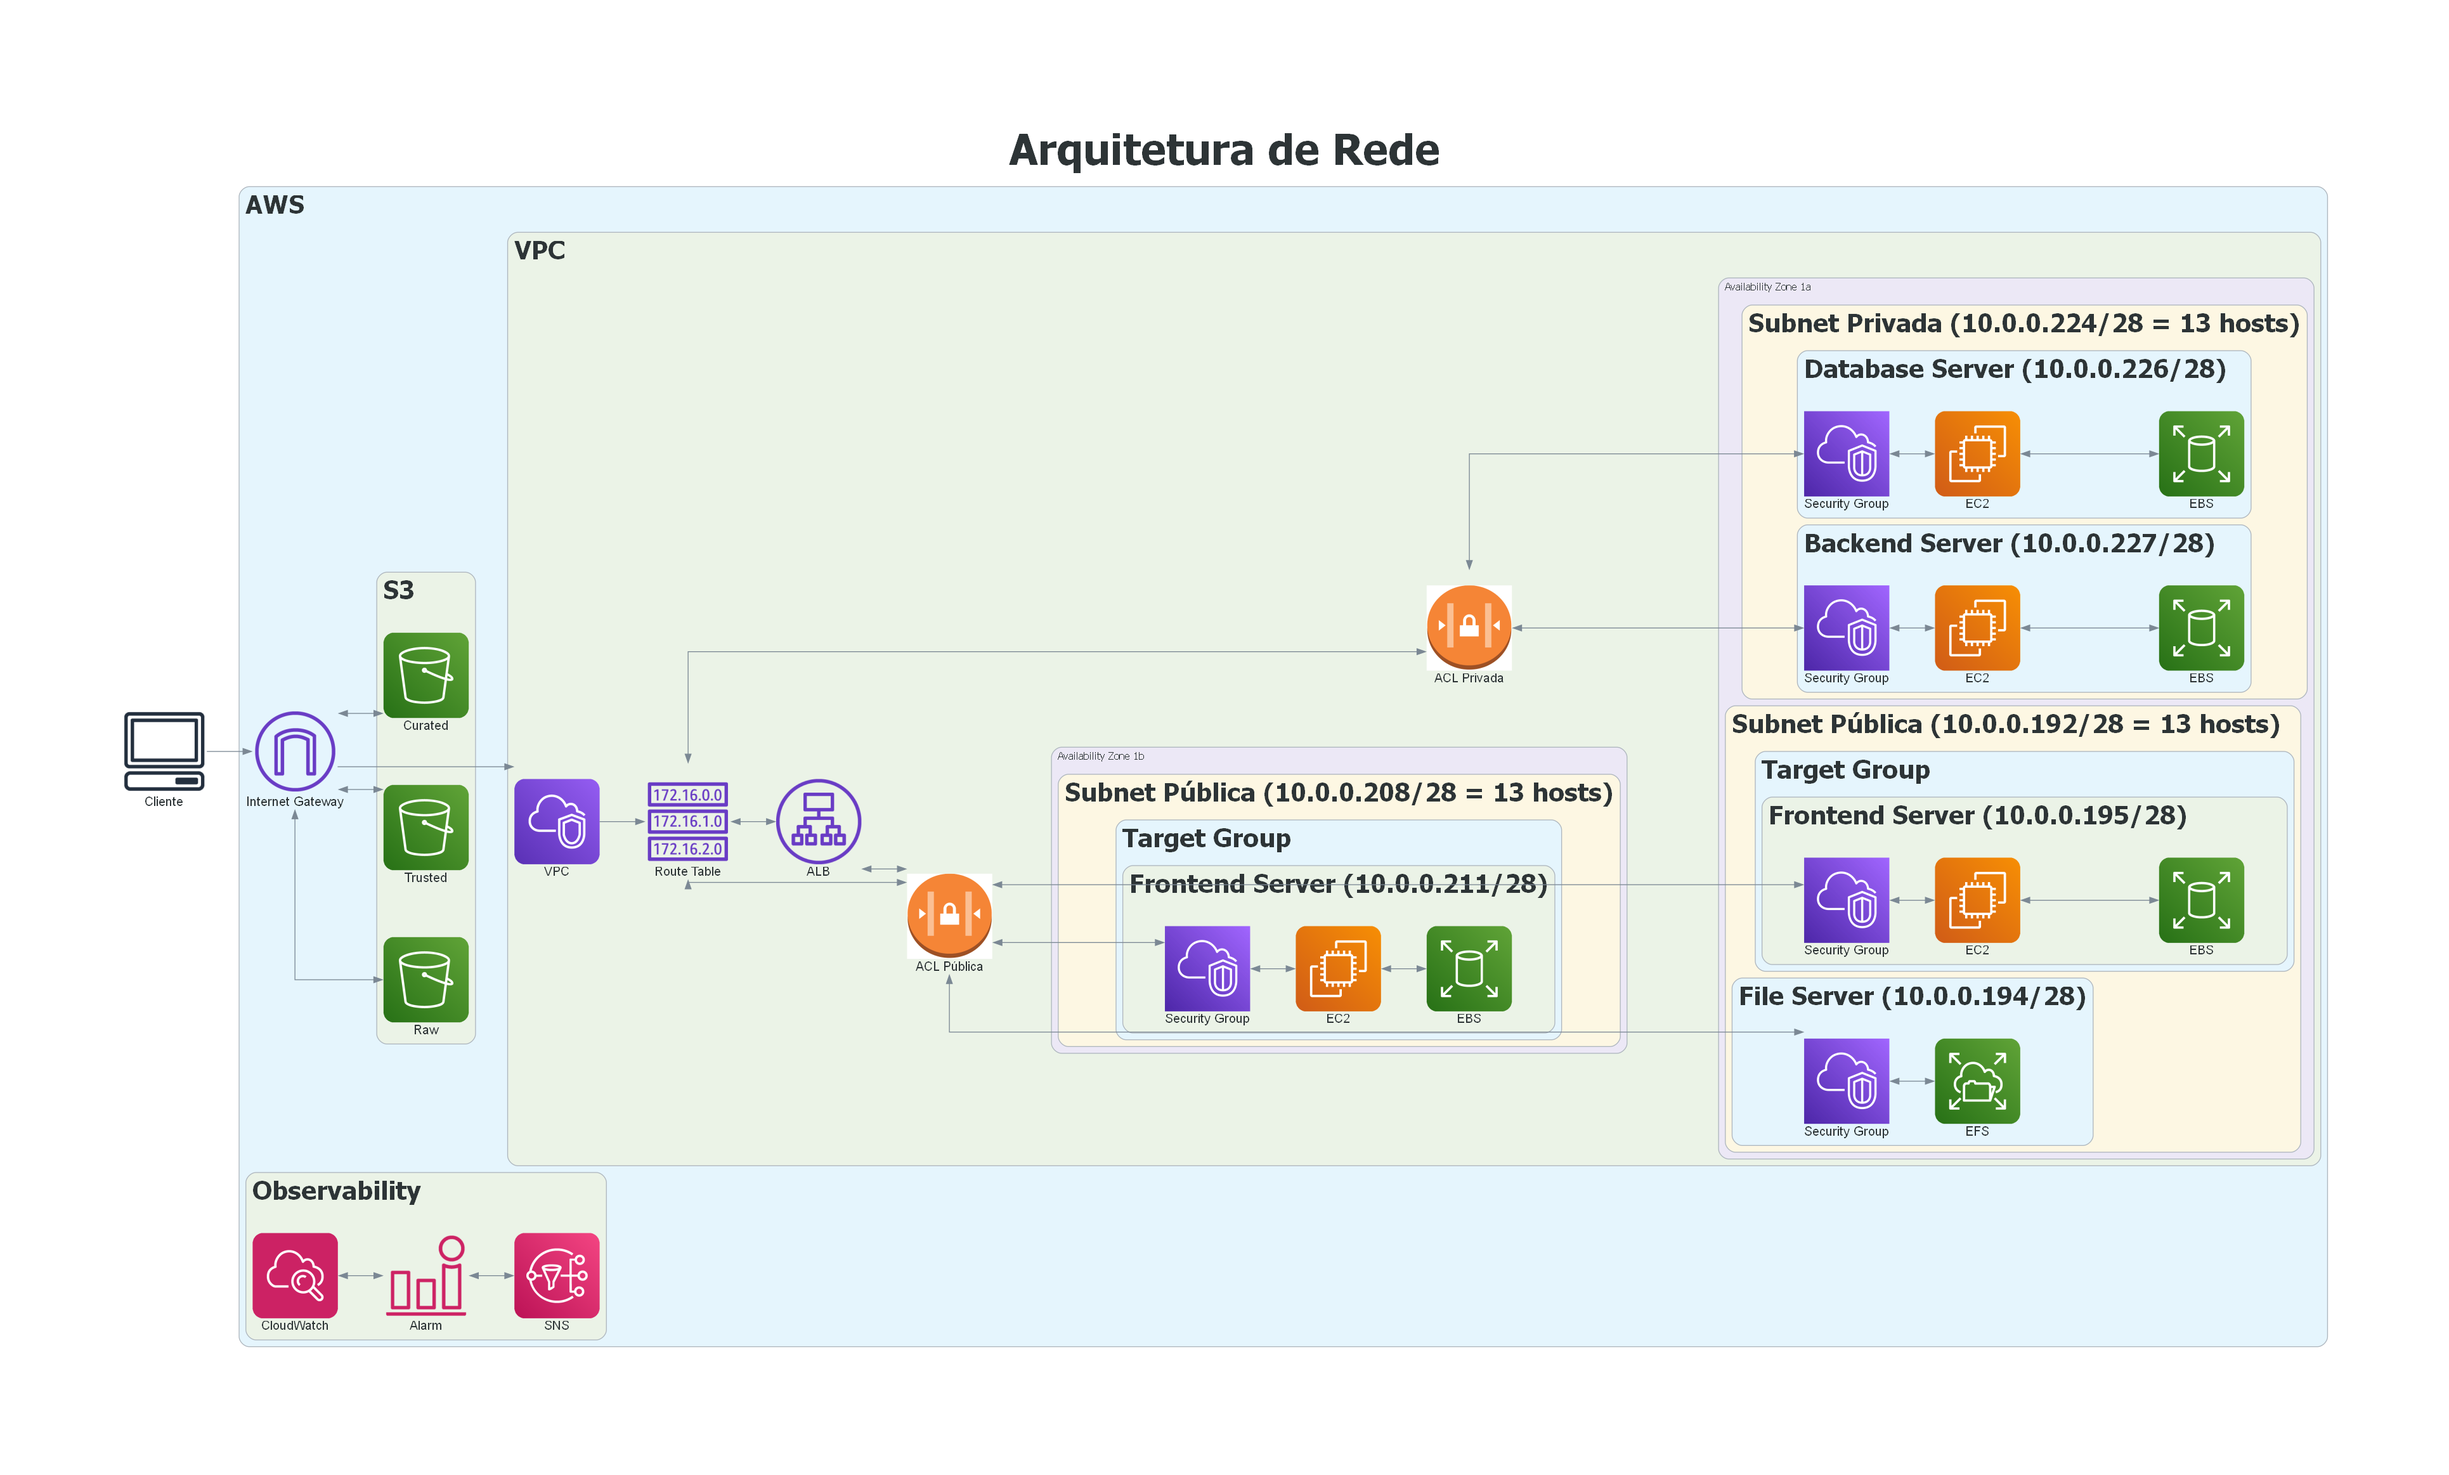
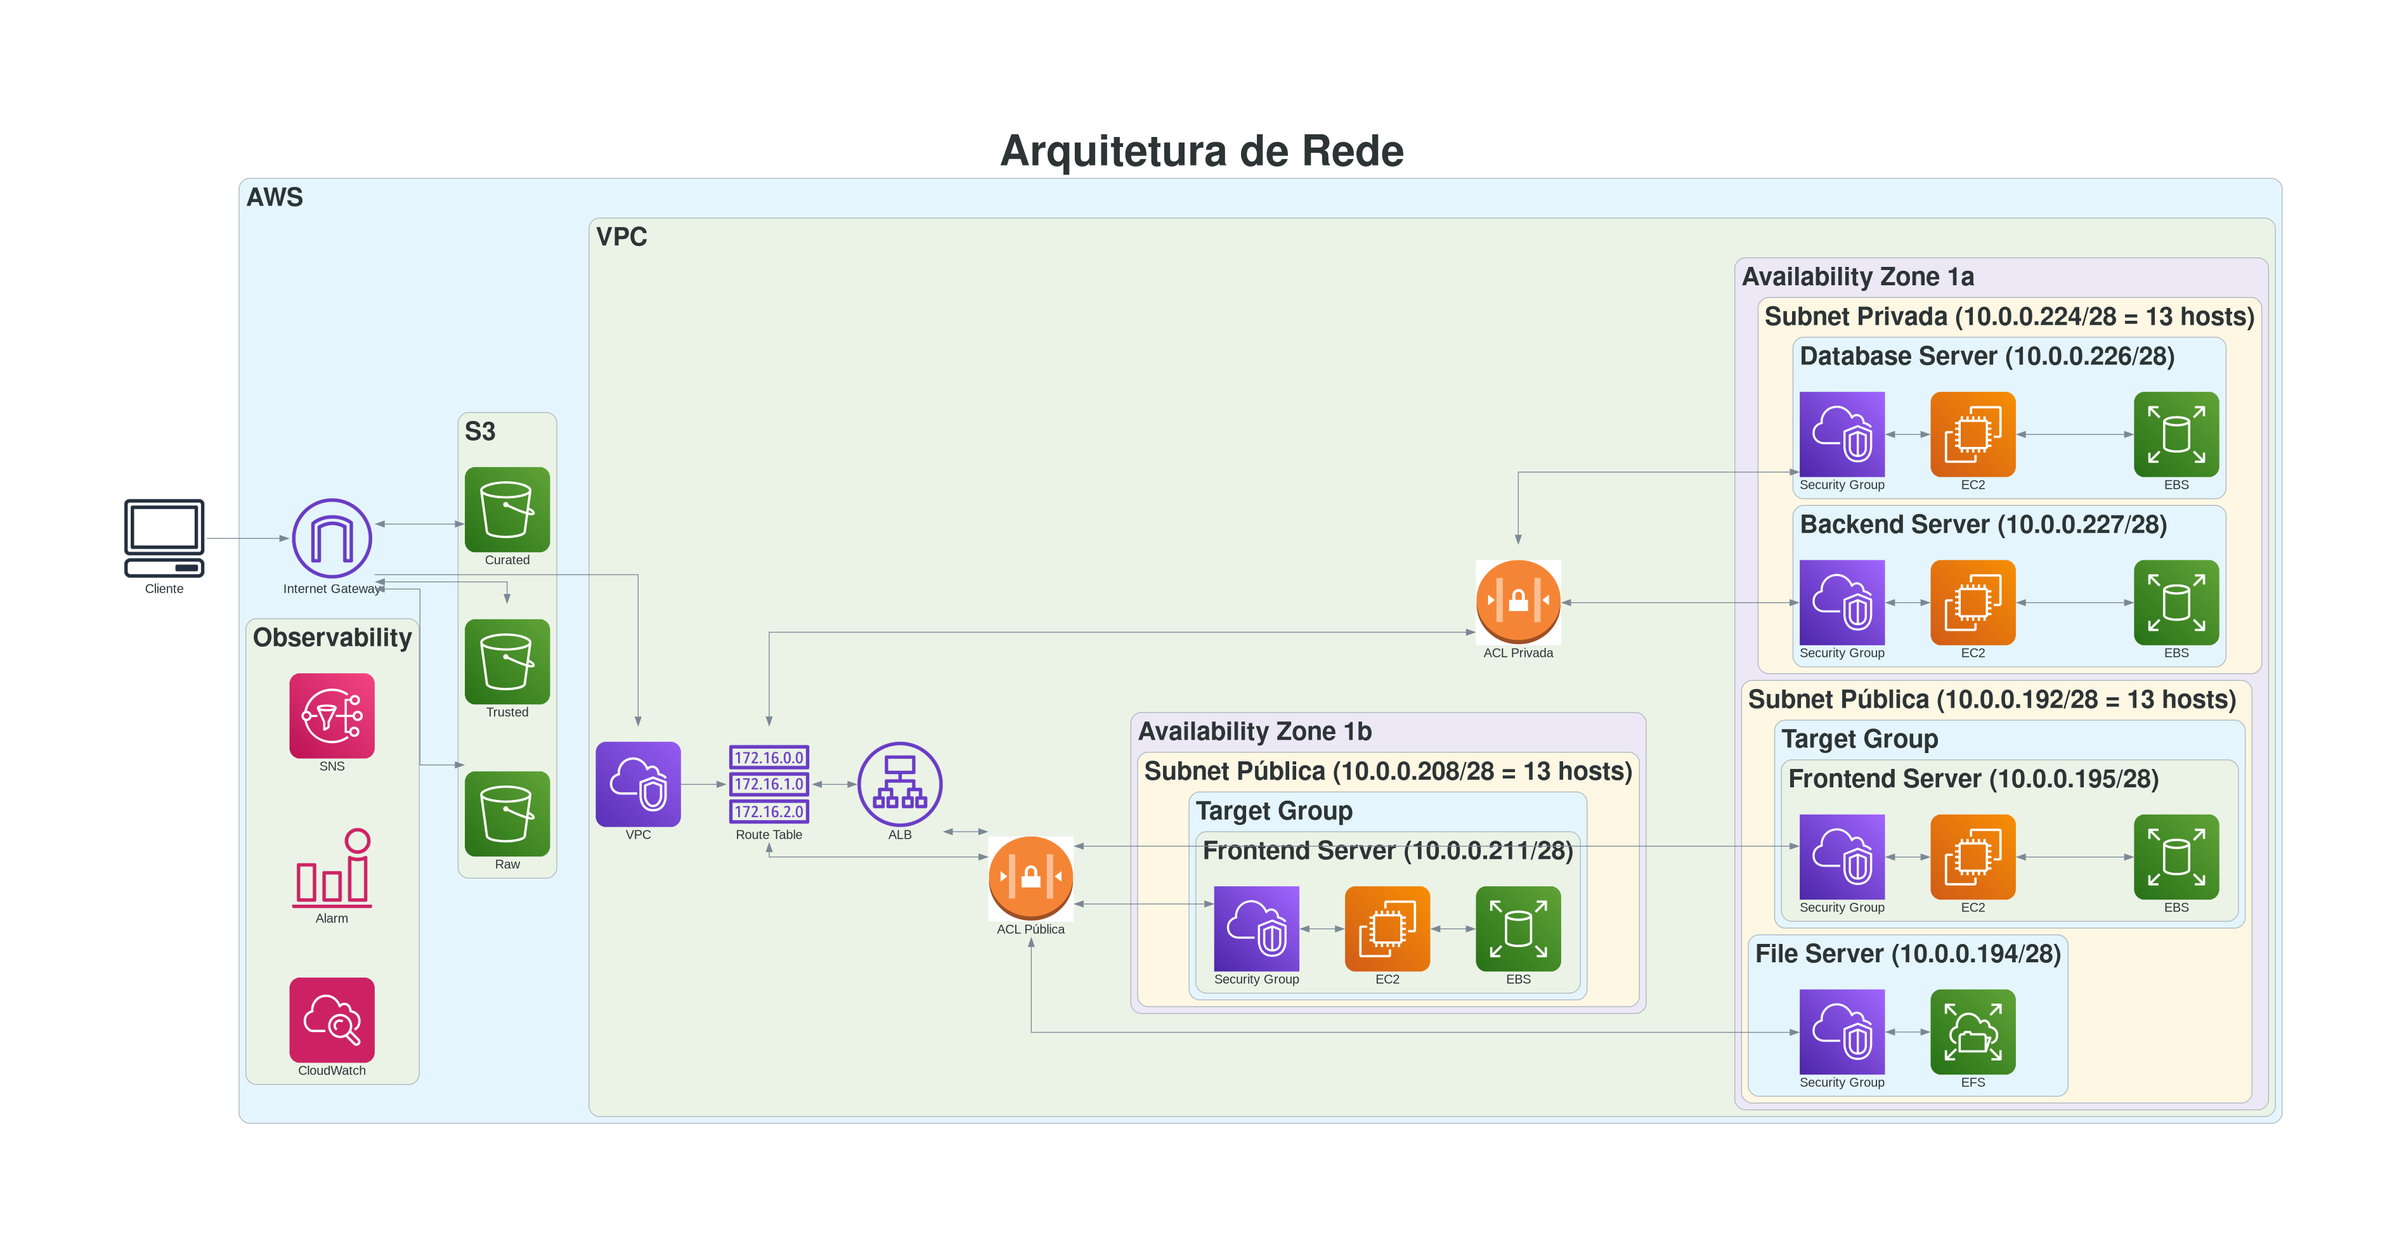
fix: nomes das zonas de disponibilidade no diagrama e route table no terraform

Changed region(s): [[0.0311, 0.1853, 0.9649, 0.9266], [0.0934, 0.0927, 0.9649, 0.2162]]

diff --git a/diagramas/diagrama.py b/diagramas/diagrama.py
@@ -51,7 +51,7 @@ with Diagram("Arquitetura de Rede", show=False, node_attr=node_font_style, graph
 
       alb = ALB("ALB")
 
-      with Cluster("Availability Zone 1a"):
+      with Cluster("Availability Zone 1a", graph_attr=cluster_font_style):
         with Cluster("Subnet Pública (10.0.0.192/28 = 13 hosts)", graph_attr=cluster_font_style):
           with Cluster("Target Group", graph_attr=cluster_font_style):
             with Cluster("Frontend Server (10.0.0.195/28)", graph_attr=cluster_font_style):
@@ -79,7 +79,7 @@ with Diagram("Arquitetura de Rede", show=False, node_attr=node_font_style, graph
             sg_ec2_az1a_db = Custom("Security Group", "assets/securityGroup.png")
 
             sg_ec2_az1a_db >> Edge() << ec2_az1a_db >> Edge() << ebs_ec2_az1a_db
-      with Cluster("Availability Zone 1b"):
+      with Cluster("Availability Zone 1b", graph_attr=cluster_font_style):
         with Cluster("Subnet Pública (10.0.0.208/28 = 13 hosts)", graph_attr=cluster_font_style):
           with Cluster("Target Group", graph_attr=cluster_font_style):
             with Cluster("Frontend Server (10.0.0.211/28)", graph_attr=cluster_font_style):
